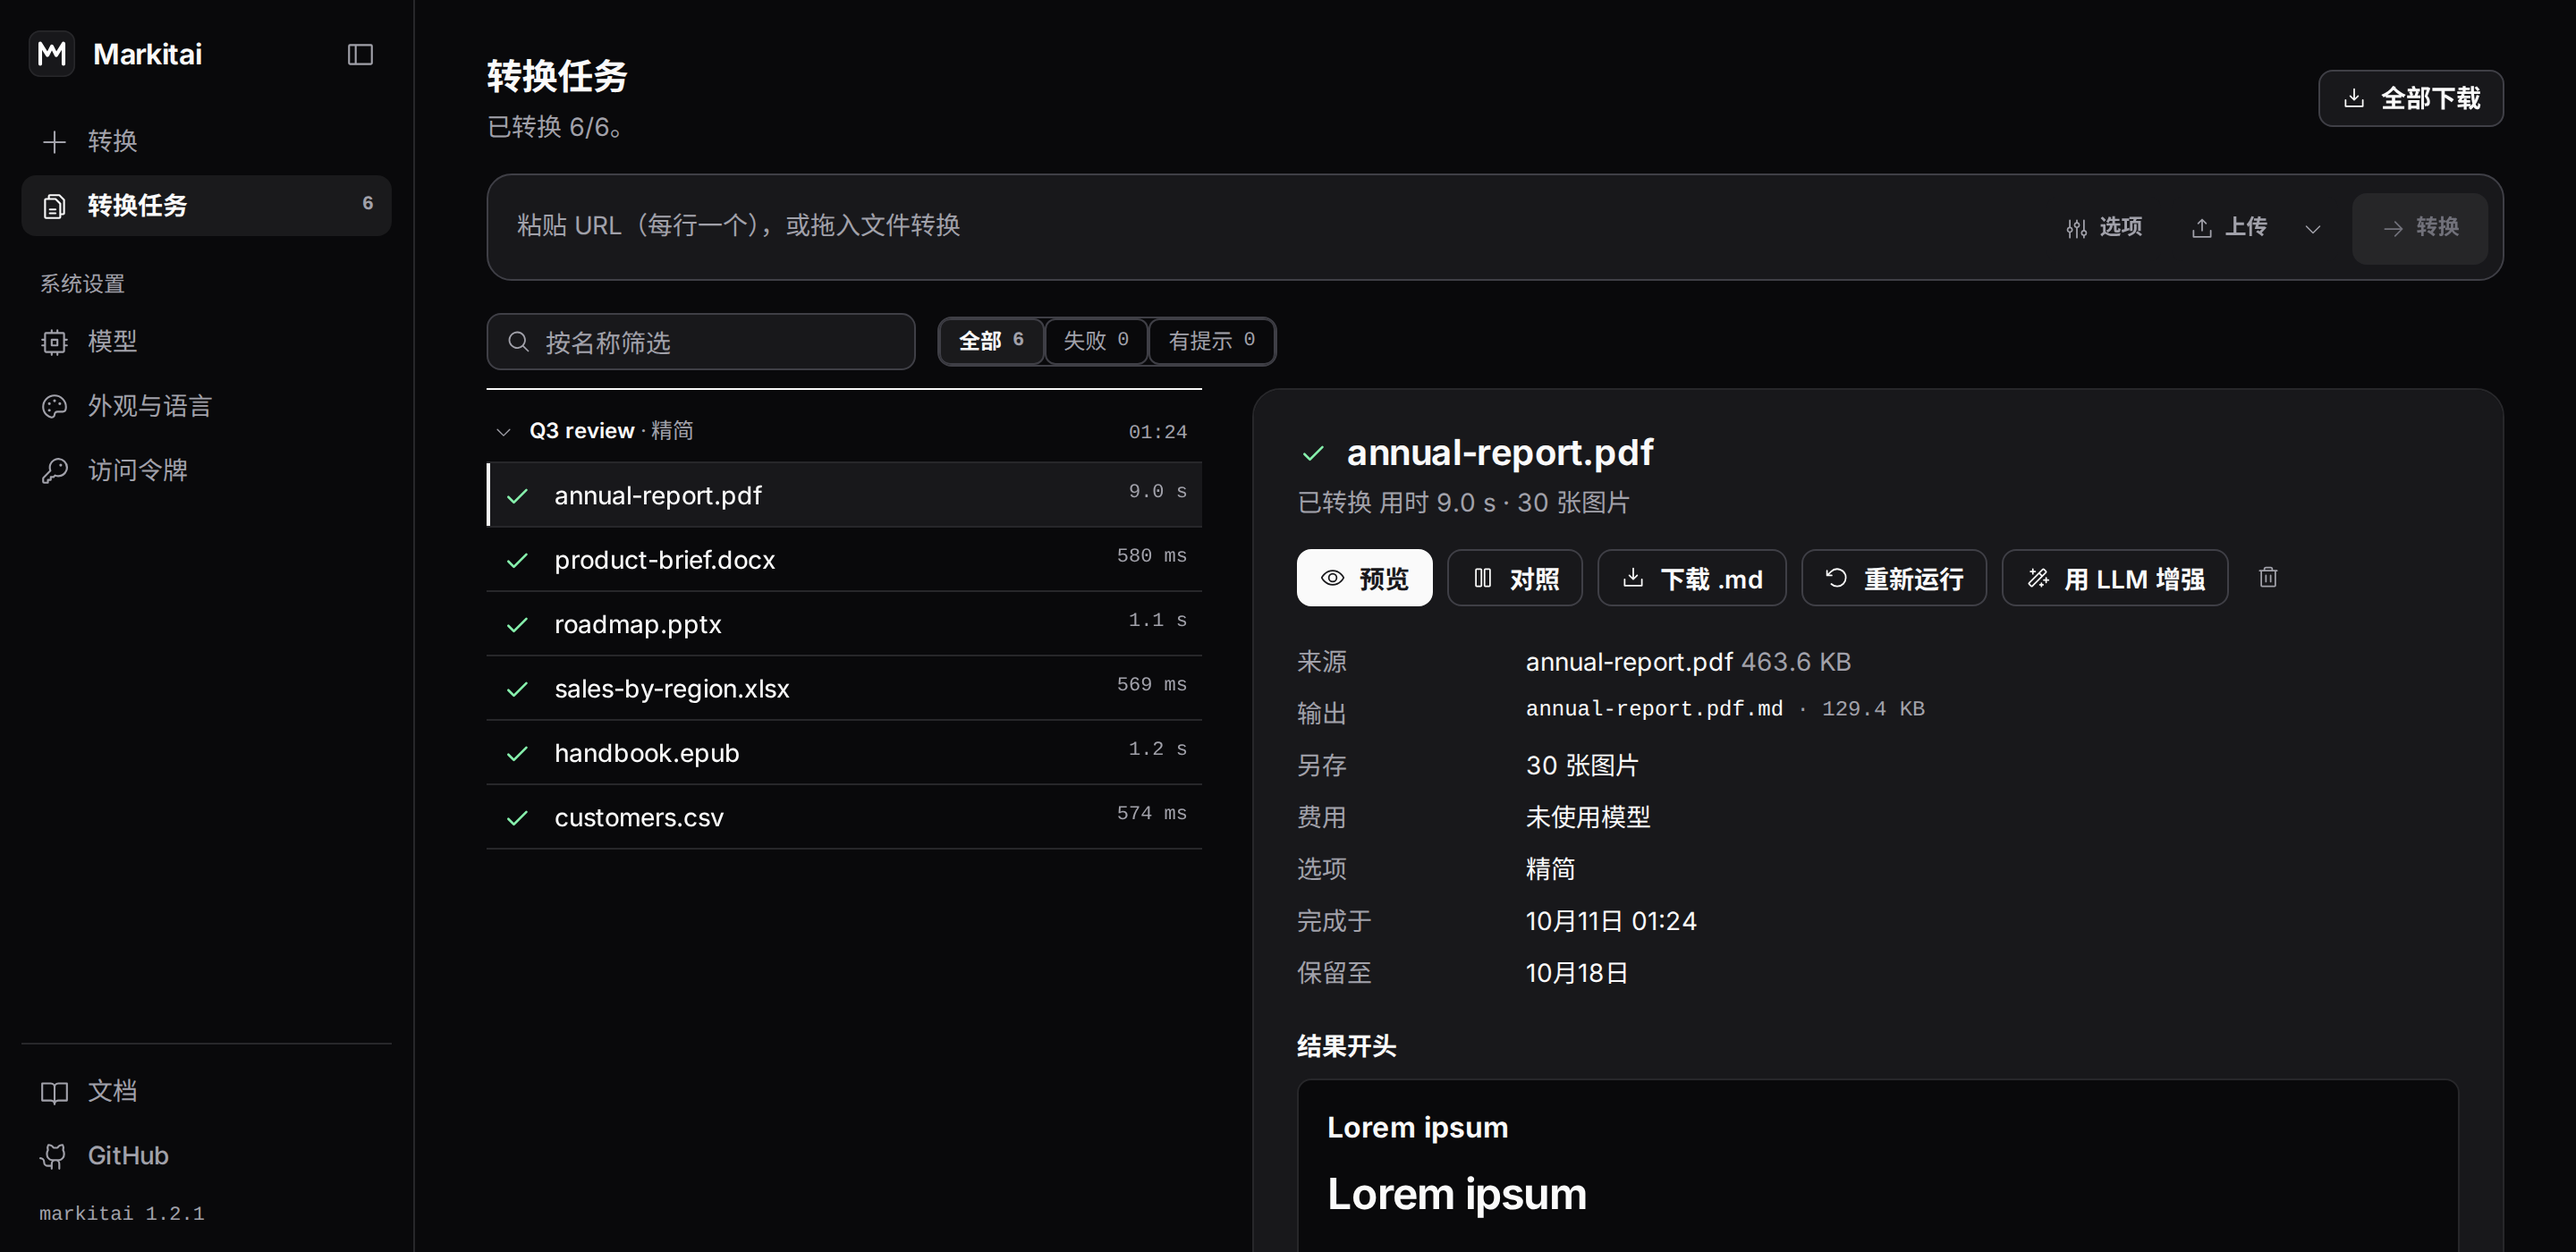
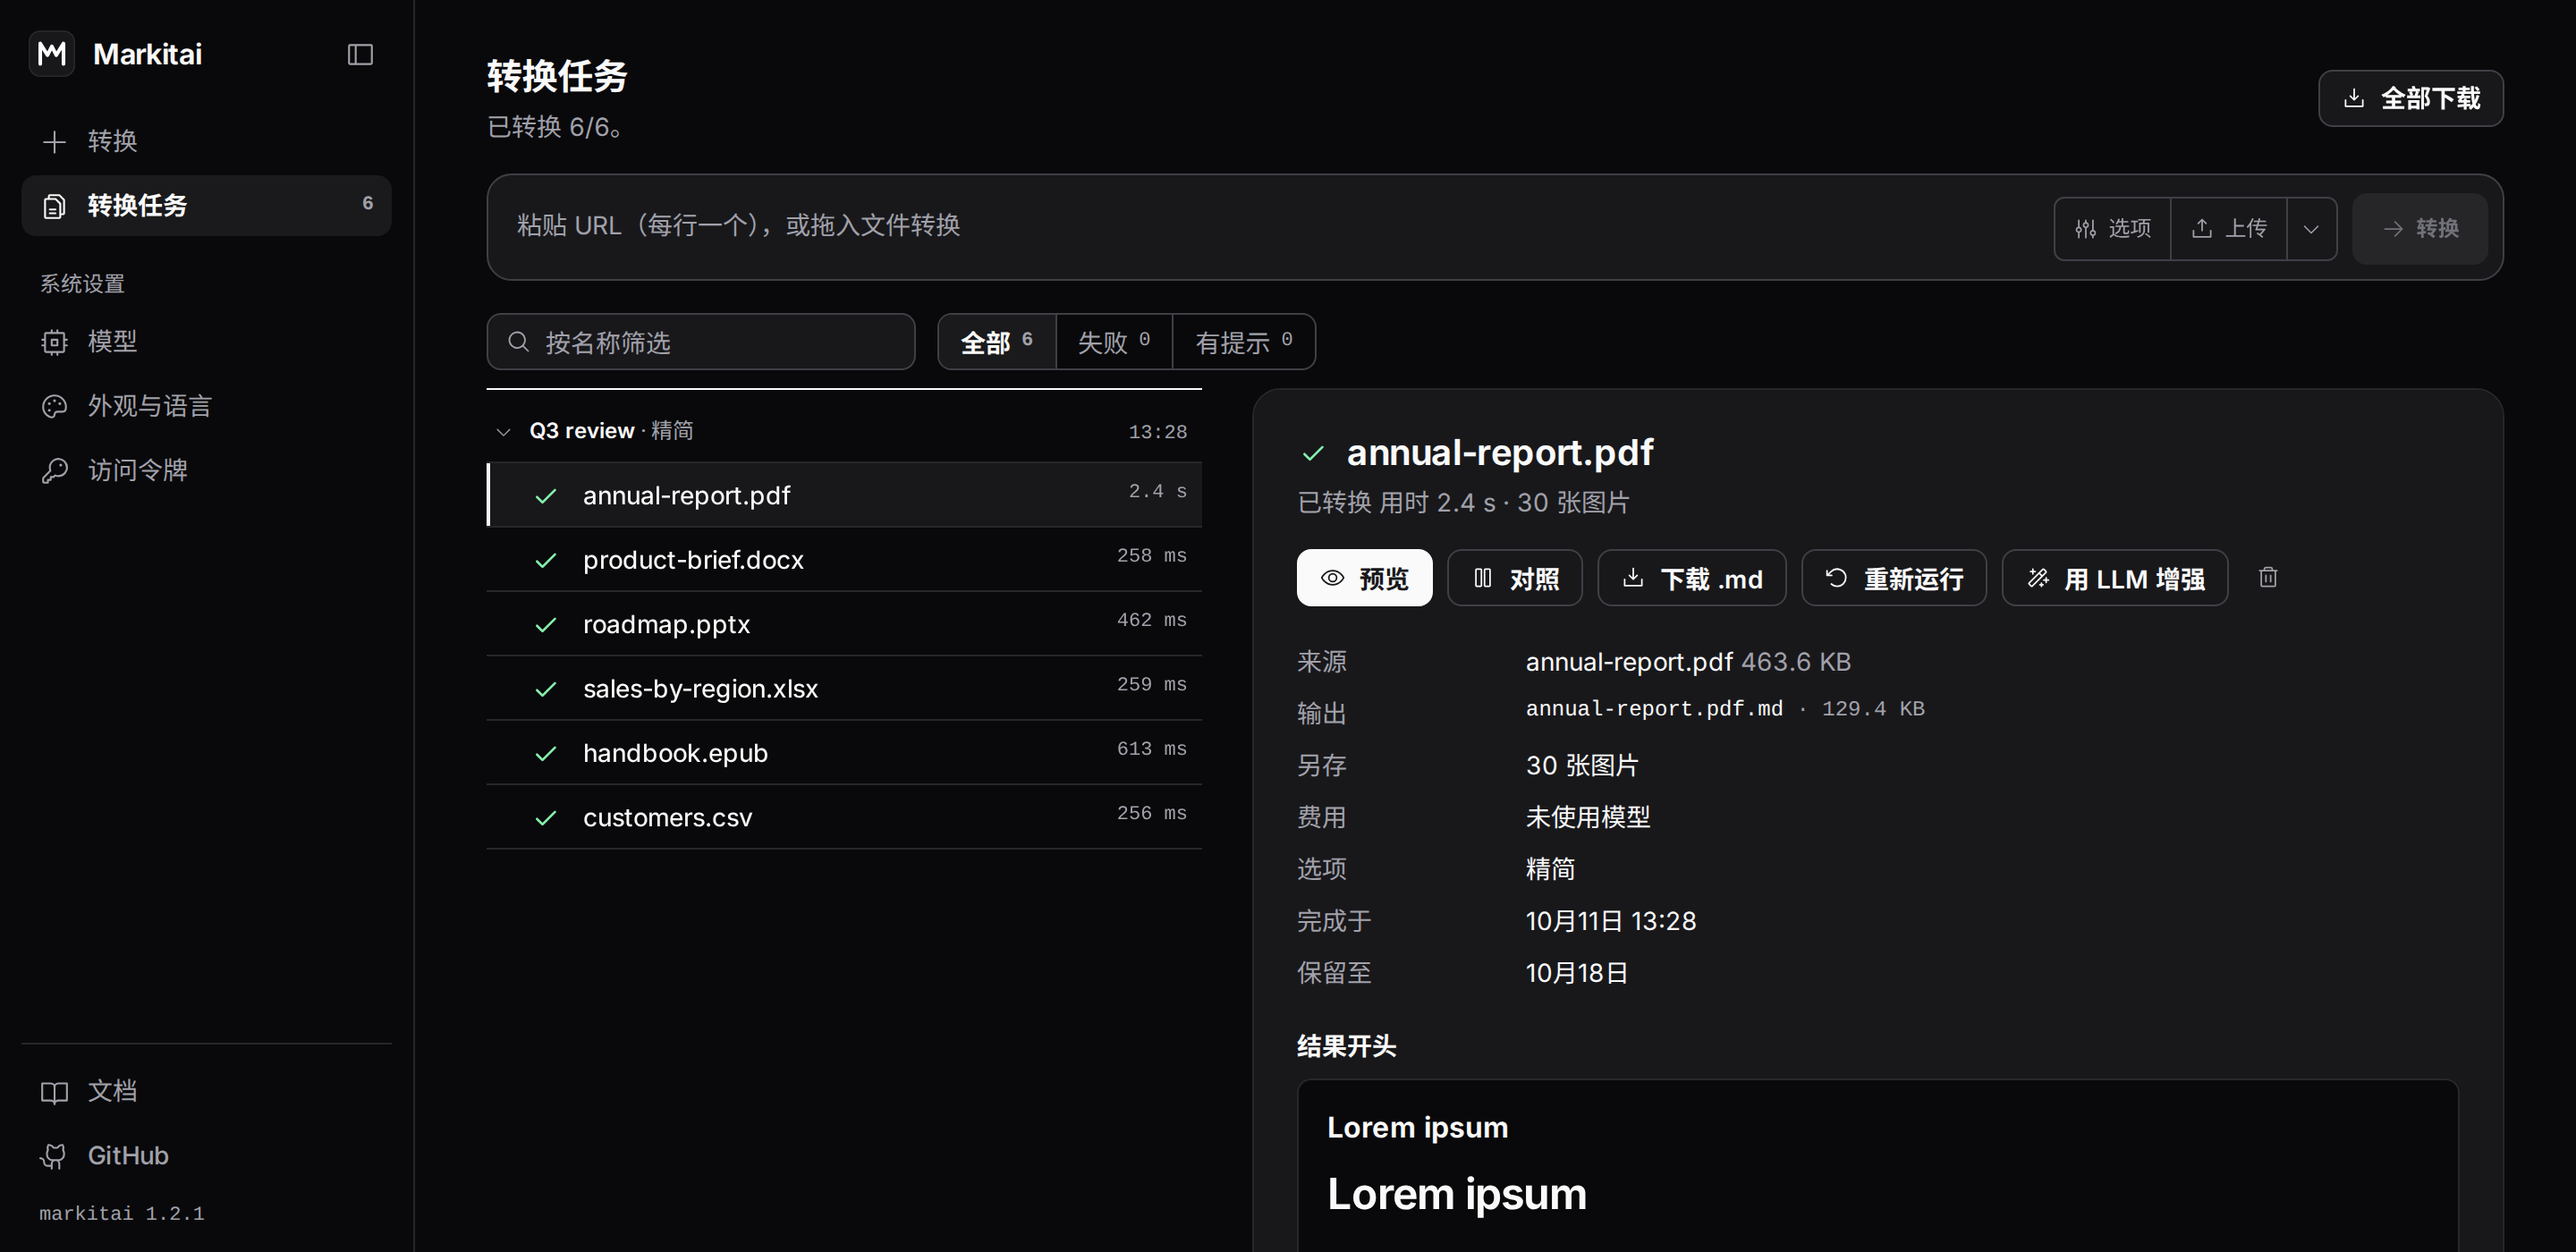
docs(serve): screenshots of workbench 89ffe75; the picker and inspector errors
The home page and serve guide screenshots (light and dark, English and
Chinese) showed the previous bundle: monospace Options, Upload and
Convert buttons and separate filter chips. They are retaken from this
tree's serve with the same six files and view (Conversions with the
inspector, 1440x700 at 2x), a model configured as before so the
inspector offers Enhance with LLM.

The guide (en, zh) adds what changed for a user: a failed action on an
item is reported at the top of its inspector, and Add models opens the
provider picker (search by name or model prefix, common providers as
tiles, the others under filters such as Local and Subscriptions).

diff --git a/website/guide/serve.md b/website/guide/serve.md
@@ -55,7 +55,7 @@ The sidebar has three places: **Convert**, **Conversions** and **Settings** (Mod
 - **Composer**: paste URLs (one per line), drop files or a folder, or use **Upload** (its menu also picks a folder). Files are staged until you press **Convert**, with upload progress, and can be combined with URLs in one submission. A `.urls` file is read as a list of URLs, as on the command line. URLs are checked before anything is sent.
 - **Options**: nothing is asked by default. **Options** holds the preset, Enhance (LLM, OCR, image analysis), Output (profile) and Advanced (fetch strategy, files backend, cache, compression), with the equivalent command line ready to copy.
 - **Conversions**: one list of every item, grouped by submission (named after the folder or `.urls` list it came from). It updates live; filter it by name or by All, Failed and Notices. **Stop remaining** stops the items of a running submission that have not started; the ones already converting finish, and stopped items can be retried later. A notification fires when a submission finishes in a background tab.
-- **Inspector**: select an item to see its status, the sizes of its source and output, the models used and the cost, its options, how long it is kept and its notices, with the start of the result. From there: **Preview**, **Compare**, **Download .md**, **Run again** or **Retry**, **Enhance with LLM**, or delete it. Retry is not offered for a file type markitai cannot convert.
+- **Inspector**: select an item to see its status, the sizes of its source and output, the models used and the cost, its options, how long it is kept and its notices, with the start of the result. From there: **Preview**, **Compare**, **Download .md**, **Run again** or **Retry**, **Enhance with LLM**, or delete it. Retry is not offered for a file type markitai cannot convert. When an action on the item fails (a Retry the server refuses, say), the inspector says so at its top.
 - **Cost**: a cost is shown only when it is known. When the provider has no price for a model, the item says the cost is unknown instead of `$0`, and when only some requests were priced it shows "at least" that amount.
 - **Preview**: the result opens beside the list (**F** for full width), with Rendered, Source, Files and, for LLM-enhanced items, Diff against the unenhanced Markdown, plus Export PDF with an optional header and footer. Large tables show their first 500 rows at once (**Show all rows** adds the rest); code blocks are highlighted.
 - **Compare**: shows the original next to the Markdown: the pages of a PDF (hover a heading or table in the Markdown to outline it on the page), an image, an HTML or text document, or the page screenshots a conversion saved (Office files, web pages). Formats a browser cannot show offer **Download the original** instead; URL items keep no copy of the page.
@@ -79,7 +79,7 @@ Every option has hover or tap help that says what it depends on, where the data 
 
 ## LLM Settings
 
-**Settings → Models** edits the same configuration as `markitai config`: discover providers, browse model lists, set weights and test connections without exposing stored keys. Changes apply to web jobs and to later CLI runs alike.
+**Settings → Models** edits the same configuration as `markitai config`: discover providers, browse model lists, set weights and test connections without exposing stored keys. **Add models** opens a provider picker: search by name or model prefix, the common providers as tiles, the others under filters such as Local and Subscriptions. Changes apply to web jobs and to later CLI runs alike.
 
 The provider editor shows a saved key only in masked form (`sk…7890`; an `env:` reference is shown as is). Leave the field as it is to keep the saved key, type a new key to replace it, or clear it to remove the key. A saved API base address is shown without its credentials (`https://…@proxy.example/v1?api_key=…`): left as shown it keeps the saved address; to change it, type the whole address.
 

diff --git a/website/zh/guide/serve.md b/website/zh/guide/serve.md
@@ -55,7 +55,7 @@ markitai serve --host 0.0.0.0
 - **输入区**：粘贴 URL（每行一个），拖入文件或文件夹，或用**上传**（下拉菜单可选文件夹）。文件先暂存，按下**转换**才提交，带上传进度，可以和 URL 合成一次提交。`.urls` 文件按 URL 列表读取，与命令行一致。URL 在发送前就会校验。
 - **选项**：默认什么都不问。**选项**里有预设、增强（LLM、OCR、图片分析）、输出（profile）和高级（抓取策略、文件后端、缓存、压缩），并附上等价命令行，可直接复制。
 - **转换任务**：一个列表列出所有条目，按提交分组（以来源文件夹或 `.urls` 列表命名），实时更新，可按名称筛选，或按全部、失败、有提示过滤。**停止剩余**会停下正在运行的提交里尚未开始的条目，已在转换的条目照常完成，被停下的条目之后可以重试。提交在后台标签页完成时会发通知。
-- **检查面板**：选中条目即可看到状态、原件与输出的大小、使用的模型与费用、选项、保留期限和提示，以及结果开头。可以从这里**预览**、**对照**、**下载 .md**、**重新运行**或**重试**、**用 LLM 增强**，或删除。markitai 无法转换的文件类型不提供重试。
+- **检查面板**：选中条目即可看到状态、原件与输出的大小、使用的模型与费用、选项、保留期限和提示，以及结果开头。可以从这里**预览**、**对照**、**下载 .md**、**重新运行**或**重试**、**用 LLM 增强**，或删除。markitai 无法转换的文件类型不提供重试。对条目的操作失败时（例如服务器拒绝了重试），原因显示在检查面板顶部。
 - **费用**：只有确知的费用才会显示金额。提供商没有给某个模型定价时，条目显示费用未知，而不是 `$0`；只有部分请求有价格时显示“至少”多少。
 - **预览**：结果在列表旁打开（按 **F** 切换全宽），有渲染、源码、文件，LLM 增强过的条目还有与未增强 Markdown 的对比，并可导出 PDF，页眉页脚可选。大表格先显示前 500 行（**显示全部行**加载其余），代码块带语法高亮。
 - **对照**：在 Markdown 旁显示原件：PDF 的页面（鼠标移到 Markdown 里的标题或表格上，页面上会框出对应位置）、图片、HTML 或文本文档，或转换时保存的页面截图（Office 文件、网页）。浏览器无法显示的格式改为提供**下载原件**；URL 条目不保留网页副本。
@@ -79,7 +79,7 @@ markitai serve --host 0.0.0.0
 
 ## LLM 设置
 
-**系统设置 → 模型**编辑的就是 `markitai config` 那套配置：发现提供商、浏览模型列表、设置权重、测试连接，且不会暴露已保存的 key。改动同时作用于网页任务和之后的 CLI 运行。
+**系统设置 → 模型**编辑的就是 `markitai config` 那套配置：发现提供商、浏览模型列表、设置权重、测试连接，且不会暴露已保存的 key。**添加模型**会打开服务商选择器：可按名称或模型前缀搜索，常用服务商以卡片列出，其余按「本地」「订阅」等分组筛选。改动同时作用于网页任务和之后的 CLI 运行。
 
 提供商编辑器只显示已保存 key 的打码形式（`sk…7890`；`env:` 引用原样显示）。不动这个字段就保留已保存的 key，输入新 key 即替换，清空则删除 key。已保存的 API 基础地址显示时不含凭据（`https://…@proxy.example/v1?api_key=…`）：保持原样即沿用已保存的地址，要修改请输入完整地址。
 
